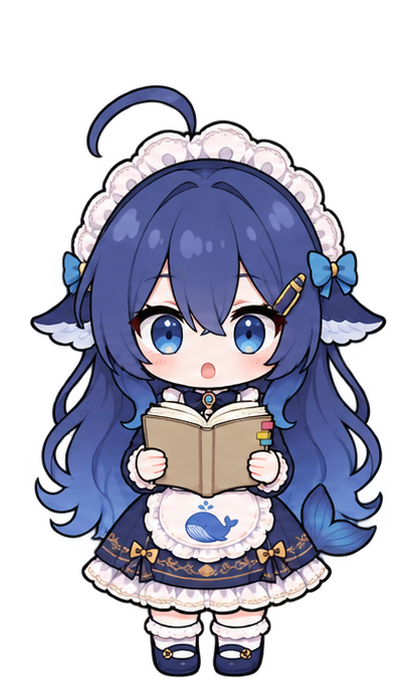
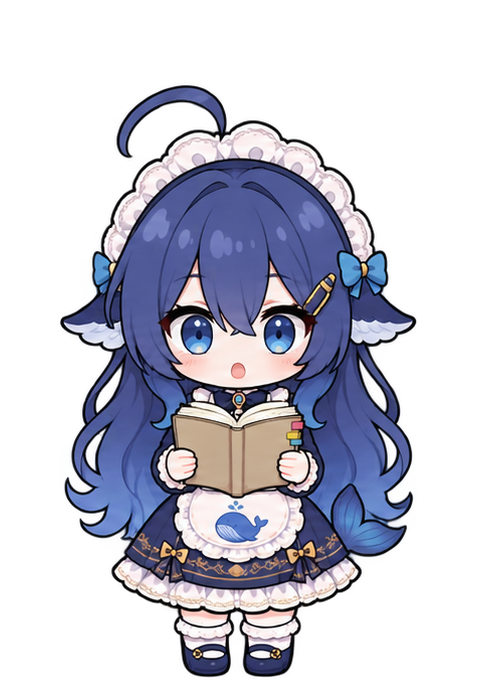
接上 6 个桌宠动作（Kapozux 画：被拎起、落地、坐着翻本子、趴本子睡着、背对生闷气、挥手）：拖着时悬空、摔下来落地、没人理 3 分钟坐下、10 分钟（半夜 3 分钟）睡着、连戳生气时背过身、出场和开心时挥手。没这张图的退回对应表情。立绘画布统一放大到 480×680（只补透明边）

Changed region(s): [[0.0619, 0.1235, 0.9286, 1.0], [0.5262, 0.1544, 0.5571, 0.1853]]

diff --git a/src/shared/pet-engine.js b/src/shared/pet-engine.js
@@ -58,11 +58,16 @@ export function rounds(text) {
  * 都没图用 normal。表情（脸）和姿势（记账、数饭碗、本子挡脸……）混着用。
  */
 export const EXPR = {
-  idle: 'normal', work: ['write', 'thinking'], file: ['write', 'thinking'], yawn: 'sleepy', startle: 'surprised', drag: 'surprised',
-  caught: ['hide', 'shy'], bow: ['bow', 'shy'], sigh: 'sad', cheer: ['spout', 'happy'], eat: ['count', 'eat'], poke: 'happy',
-  angry: ['accuse', 'pout'], proud: 'proud',
+  idle: 'normal', work: ['write', 'thinking'], file: ['write', 'thinking'], yawn: ['sleep', 'sleepy'], startle: 'surprised', drag: 'dangle',
+  caught: ['hide', 'shy'], bow: ['bow', 'shy'], sigh: 'sad', cheer: ['spout', 'wave', 'happy'], eat: ['count', 'eat'], poke: ['wave', 'happy'],
+  angry: ['sulk', 'accuse', 'pout'], proud: 'proud',
 }
-export const POSES = ['write', 'count', 'hide', 'accuse', 'spout', 'bow']
+/** 姿势图（不是单纯换脸）；没这张图时退回哪个表情 */
+export const POSE_FALLBACK = {
+  write: 'thinking', count: 'eat', hide: 'shy', accuse: 'pout', spout: 'happy', bow: 'shy',
+  dangle: 'surprised', land: 'surprised', sit: 'normal', sleep: 'sleepy', sulk: 'pout', wave: 'happy',
+}
+export const POSES = Object.keys(POSE_FALLBACK)
 export const FIGURES = ['normal', 'blink', 'happy', 'sad', 'surprised', 'sleepy', 'shy', 'thinking', 'eat', 'pout', 'proud', ...POSES, 'flip-1', 'flip-2', 'flip-3', 'flip-4', 'flip-5', 'flip-6']
 
 const CSS = `
@@ -202,7 +207,7 @@ export function createPet(host, opts) {
   fig.append(img, mark); float.appendChild(fig); body.appendChild(float)
   const MARK = { happy: '♪', surprised: '！', sleepy: 'z', shy: '///', sad: '💧', thinking: '…', eat: '♪', pout: '💢', proud: '✦' }
   const srcs = {}                              // 名字 → 地址（null = 没这张图）
-  let expr = 'normal', exprTimer = 0
+  let expr = 'normal', exprTimer = 0, lastActive = Date.now()
   const ready = Promise.all(FIGURES.map(n => Promise.resolve(opts.figureSrc(n)).catch(() => null).then(u => { srcs[n] = u })))
   const srcOf = n => srcs[n] || srcs.normal
   // 没有备用形象：立绘取不到就不显示（隔 5 秒再取一次），绝不画别的东西顶上
@@ -210,7 +215,9 @@ export function createPet(host, opts) {
   /** 换表情：有这张表情图就换图；没有就用 normal 图 + 代码画的漫画符号和动作。ms 后回到 normal（0 = 保持到下次换） */
   function setExpr(name, ms = 0) {
     clearTimeout(exprTimer)
-    expr = name in MARK || name === 'normal' || (POSES.includes(name) && srcs[name]) ? name : 'normal'
+    if (POSES.includes(name) && !srcs[name]) name = POSE_FALLBACK[name]
+    expr = name in MARK || name === 'normal' || POSES.includes(name) ? name : 'normal'
+    lastActive = Date.now()
     float.className = 'fy-float' + (expr !== 'normal' && !srcs[expr] ? ' fy-e-' + expr : '')
     mark.textContent = expr === 'shy' ? '' : MARK[expr] || ''
     show(expr)
@@ -223,6 +230,13 @@ export function createPet(host, opts) {
     setExpr(have.length ? have[Math.floor(Math.random() * have.length)] : e.at(-1), ms)
   }
   const idle = () => setExpr('normal')
+  // 没人理她：3 分钟坐下翻本子，10 分钟（半夜 3 分钟）趴在本子上睡着。戳她 / 拖她就醒
+  const restTimer = setInterval(() => {
+    if (dragging || bubble || thinking || !(expr === 'normal' || expr === 'sit')) return
+    const quiet = Date.now() - lastActive, h = new Date().getHours()
+    const want = quiet > (h < 6 ? 3 : 10) * 60e3 ? 'sleep' : quiet > 3 * 60e3 ? 'sit' : null
+    if (want && want !== expr && srcs[want]) { const keep = lastActive; setExpr(want); lastActive = keep }
+  }, 20e3)
   // 眨眼：只在 normal 时眨，每 2.5～6 秒一次，偶尔连眨两下
   let blinkTimer = 0
   function blink() {
@@ -242,7 +256,7 @@ export function createPet(host, opts) {
     show(expr)
   }
   let figTimer = 0
-  ready.then(() => { if (srcs.normal) { pet.style.visibility = ''; show(expr) } else loadFigures(); blink() })
+  ready.then(() => { if (srcs.normal) { pet.style.visibility = ''; show(expr); if (srcs.wave) setExpr('wave', 1600) } else loadFigures(); blink() })
 
   // 翻本子：点了之后先翻（2→3→4→5，记录没读完就在 4、5 之间来回翻），翻到了停在第 6 帧「看到了」
   let flipTimer = 0
@@ -291,7 +305,7 @@ export function createPet(host, opts) {
     if (y >= floor() && vy >= 0) {
       y = floor()
       const hit = vy
-      if (hit > 260) { vy = -hit * BOUNCE; vx *= FRICTION; squash(1.18, 0.8) }
+      if (hit > 260) { vy = -hit * BOUNCE; vx *= FRICTION; squash(1.18, 0.8); if (!bubble && (expr === 'normal' || expr === 'land')) setExpr('land', 700) }
       else { vy = 0; vx *= 0.8 }
     }
     onFloor = y >= floor() && Math.abs(vy) < 1
@@ -618,7 +632,7 @@ export function createPet(host, opts) {
   return {
     say, poke,
     destroy() {
-      cancelAnimationFrame(raf); clearTimeout(blinkTimer); clearTimeout(exprTimer); clearTimeout(flipTimer); hideBubble(); closeMenu(); win.removeEventListener('resize', onResize); doc.removeEventListener('pointerdown', onDocDown, true); root.remove()
+      cancelAnimationFrame(raf); clearInterval(restTimer); clearTimeout(blinkTimer); clearTimeout(exprTimer); clearTimeout(flipTimer); hideBubble(); closeMenu(); win.removeEventListener('resize', onResize); doc.removeEventListener('pointerdown', onDocDown, true); root.remove()
     },
   }
 }

diff --git a/desktop/index.html b/desktop/index.html
@@ -12,7 +12,7 @@ const prefs = {
 const seen = new Map()
 const load = () => fetch('moments.json', { cache: 'no-store' }).then(r => r.ok ? r.json() : null).then(d => d?.moments ? d : null).catch(e => { console.error('读台词失败', e); return null })
 const engine = createPet(document.getElementById('host'), {
-  size: 340, aspect: 420 / 680, prefs,
+  size: 340, aspect: 480 / 680, prefs,
   fontSrc: 'assets/fonts/xbb-rounded.woff2',
   figureSrc: k => { if (!seen.has(k)) seen.set(k, fetch('assets/xiaobenben/' + k + '.png', { method: 'HEAD' }).then(r => r.ok ? 'assets/xiaobenben/' + k + '.png' : null).catch(() => null)); return seen.get(k) },
   loadMoments: load,

diff --git a/src/client/Pet.jsx b/src/client/Pet.jsx
@@ -39,7 +39,7 @@ export function Pet() {
     const syncDesktop = d => { host.style.display = d?.desktop?.on ? 'none' : '' }
     engine = createPet(host, {
       size: 340,
-      aspect: 420 / 680,
+      aspect: 480 / 680,
       prefs,
       figureSrc,
       fontSrc: asset('fonts/xbb-rounded.woff2'),

diff --git a/assets/xiaobenben/CREDITS.md b/assets/xiaobenben/CREDITS.md
@@ -4,9 +4,11 @@
 |---|---|---|
 | `turnaround.png` | 三视图原画（正面 / 侧面 / 背面，透明背景） | Kapozux，用 ChatGPT 的图像生成绘制 |
 | `flip-sheet.png` | 翻本子的 6 帧原画（一张横排） | 同上 |
-| `flip-1.png` … `flip-6.png` | 从 `flip-sheet.png` 切出的单帧，统一成 420×680、按脚底对齐 | 同上（切图、对齐：本插件） |
+| `flip-1.png` … `flip-6.png` | 从 `flip-sheet.png` 切出的单帧，统一成 480×680、按脚底对齐 | 同上（切图、对齐：本插件） |
 | `poses-1-sheet.png` | 6 个专属姿势原画（一张横排） | 同上 |
 | `write` `count` `hide` `accuse` `spout` `bow` `.png` | 从 `poses-1-sheet.png` 切出：记账、数饭碗、本子挡脸、翻本子质问、喷水欢呼、鞠躬 | 同上（切图、对齐：本插件） |
+| `poses-2-sheet.png` | 6 个桌宠动作原画（一张横排） | 同上 |
+| `dangle` `land` `sit` `sleep` `sulk` `wave` `.png` | 从 `poses-2-sheet.png` 切出：被拎起、落地、坐着翻本子、趴本子睡着、背对生闷气、挥手 | 同上（切图、对齐：本插件） |
 | `expressions-sheet.png` | 9 种表情原画（一张横排） | 同上 |
 | `happy` `sad` `surprised` `sleepy` `shy` `thinking` `eat` `pout` `proud` `.png` | 从 `expressions-sheet.png` 切出的单帧，缩放到和 `normal.png` 同样身高、按脚底对齐 | 同上（切图、对齐：本插件） |
 | `normal.png` | 平时站着的样子，就是 `flip-1.png` | 同上 |
@@ -21,5 +23,5 @@
 
 ## 想加表情图？
 
-同目录放这些名字的透明 PNG（和 `normal.png` 同尺寸 420×680、脚底贴着下边、左右居中）就会自动换上，缺哪张就用 `normal.png` 加代码画的漫画符号：
+同目录放这些名字的透明 PNG（和 `normal.png` 同尺寸 480×680、脚底贴着下边、左右居中）就会自动换上，缺哪张就用 `normal.png` 加代码画的漫画符号：
 `happy.png` `sad.png` `surprised.png` `sleepy.png` `shy.png` `thinking.png` `eat.png` `pout.png` `proud.png`。
